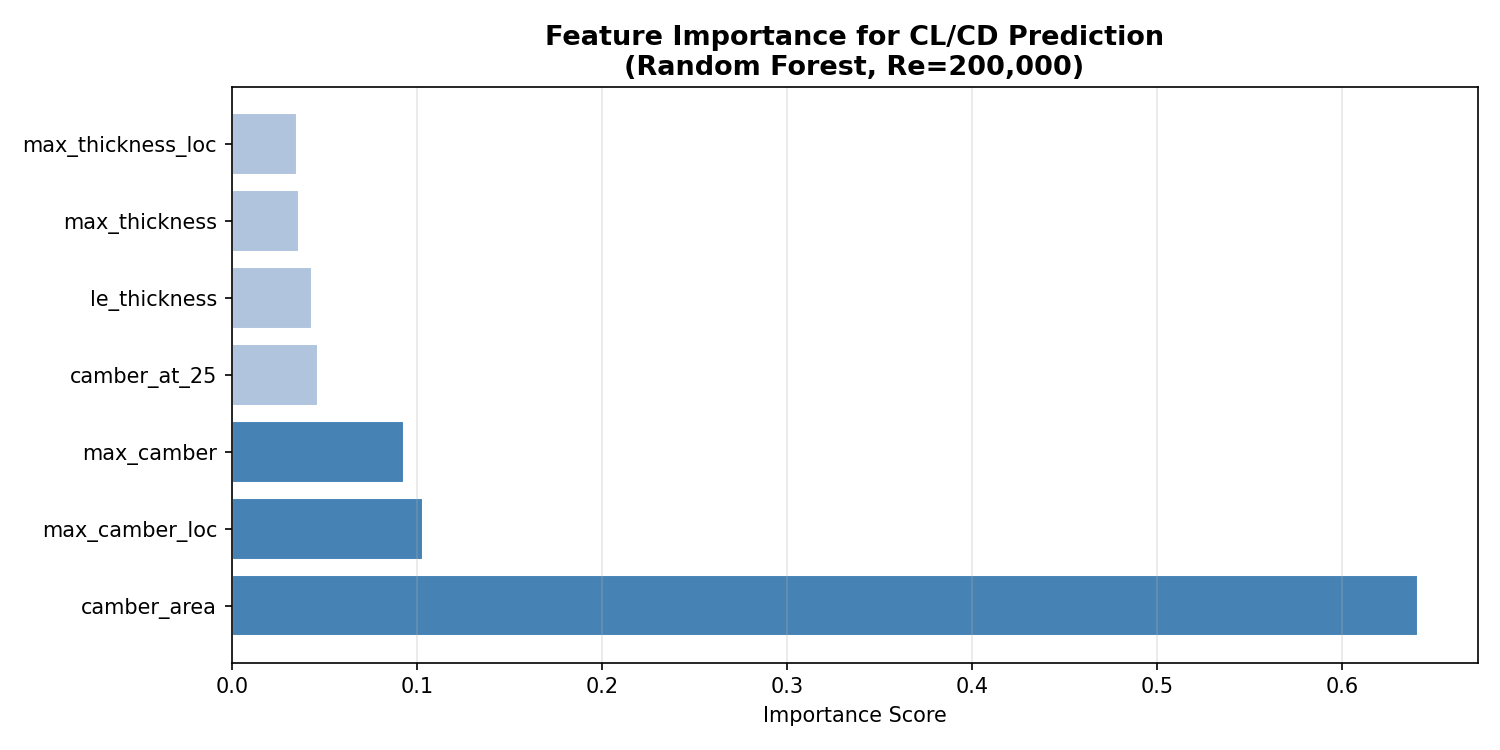
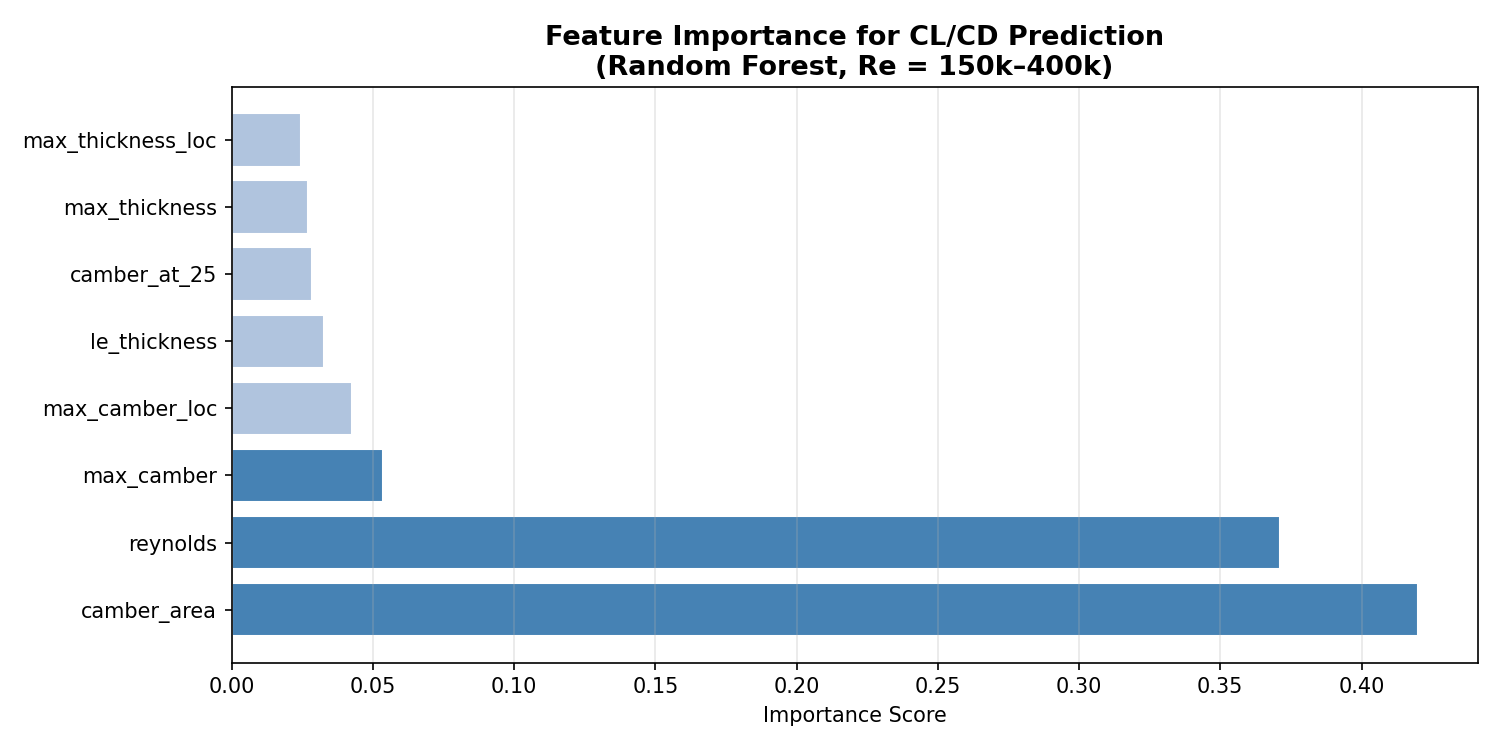
Fix CL/CD overfitting: add reynolds feature + airfoil-grouped CV/hold-out (CV R2 0.376->0.862)

diff --git a/ml_model.py b/ml_model.py
@@ -3,19 +3,21 @@ import numpy as np
 import matplotlib.pyplot as plt
 from sklearn.ensemble import RandomForestRegressor, GradientBoostingRegressor
 from sklearn.linear_model import LinearRegression
-from sklearn.model_selection import train_test_split, cross_val_score
+from sklearn.model_selection import cross_val_score, GroupKFold, GroupShuffleSplit
+from sklearn.pipeline import Pipeline
 from sklearn.preprocessing import StandardScaler
 from sklearn.metrics import r2_score, mean_absolute_error
 import os
 
-df = pd.read_csv('results/geometry_performance.csv')
+df = pd.read_csv('results/training_data_multiRe.csv')
 os.makedirs('results/figures', exist_ok=True)
 
 print(f"Dataset: {len(df)} airfoils\n")
 
 # ── Features and targets ───────────────────────────────────────────────────
 features = ['max_camber', 'max_camber_loc', 'max_thickness',
-            'max_thickness_loc', 'le_thickness', 'camber_at_25', 'camber_area']
+            'max_thickness_loc', 'le_thickness', 'camber_at_25', 'camber_area',
+            'reynolds']
 
 targets = {
     'max_CL_CD': 'Maximum CL/CD',
@@ -24,6 +26,15 @@ targets = {
 }
 
 X = df[features].values
+groups = df['airfoil'].values          # keeps an airfoil's Re rows on one side of each split
+gkf = GroupKFold(n_splits=5)
+
+# One held-out split for the reported test score, grouped so no airfoil
+# appears in both train and test (the plain random split leaked airfoils
+# across Re rows and inflated the test R²)
+gss = GroupShuffleSplit(n_splits=1, test_size=0.2, random_state=42)
+train_idx, test_idx = next(gss.split(X, groups=groups))
+
 print(f"Features: {features}")
 print(f"Samples: {len(X)}\n")
 
@@ -32,14 +43,10 @@ results = {}
 
 for target_col, target_name in targets.items():
     y = df[target_col].values
-    
-    X_train, X_test, y_train, y_test = train_test_split(
-        X, y, test_size=0.2, random_state=42)
-    
-    scaler = StandardScaler()
-    X_train_sc = scaler.fit_transform(X_train)
-    X_test_sc = scaler.transform(X_test)
-    
+
+    X_train, X_test = X[train_idx], X[test_idx]
+    y_train, y_test = y[train_idx], y[test_idx]
+
     models = {
         'Linear Regression': LinearRegression(),
         'Random Forest':     RandomForestRegressor(n_estimators=100, random_state=42),
@@ -53,26 +60,27 @@ for target_col, target_name in targets.items():
     best_r2 = -999
     
     for model_name, model in models.items():
+        # Linear Regression needs scaling; wrap it so the scaler refits
+        # inside each CV fold (no test-fold leakage) and reynolds is scaled
+        # in-matrix alongside the geometry features
         if model_name == 'Linear Regression':
-            model.fit(X_train_sc, y_train)
-            y_pred = model.predict(X_test_sc)
+            estimator = Pipeline([('scaler', StandardScaler()), ('lr', model)])
         else:
-            model.fit(X_train, y_train)
-            y_pred = model.predict(X_test)
-        
+            estimator = model
+
+        estimator.fit(X_train, y_train)
+        y_pred = estimator.predict(X_test)
+
         r2 = r2_score(y_test, y_pred)
         mae = mean_absolute_error(y_test, y_pred)
-        
-        # Cross validation
-        if model_name == 'Linear Regression':
-            cv_scores = cross_val_score(model, 
-                scaler.fit_transform(X), y, cv=5, scoring='r2')
-        else:
-            cv_scores = cross_val_score(model, X, y, cv=5, scoring='r2')
-        
+
+        # Grouped cross-validation: an airfoil is never in train and test at once
+        cv_scores = cross_val_score(estimator, X, y, cv=gkf,
+                                    groups=groups, scoring='r2')
+
         print(f"  {model_name}:")
         print(f"    Test R²={r2:.3f}  MAE={mae:.3f}  CV R²={cv_scores.mean():.3f}±{cv_scores.std():.3f}")
-        
+
         if r2 > best_r2:
             best_r2 = r2
             best_model = (model_name, model, y_pred, y_test)
@@ -101,7 +109,7 @@ colors = ['steelblue' if i < 3 else 'lightsteelblue'
           for i in range(len(importance_df))]
 ax.barh(importance_df['feature'], importance_df['importance'],
         color=colors, edgecolor='white')
-ax.set_title('Feature Importance for CL/CD Prediction\n(Random Forest, Re=200,000)',
+ax.set_title('Feature Importance for CL/CD Prediction\n(Random Forest, Re = 150k–400k)',
              fontsize=13, fontweight='bold')
 ax.set_xlabel('Importance Score')
 ax.grid(True, alpha=0.3, axis='x')
@@ -132,7 +140,7 @@ for ax, (target_col, target_name) in zip(axes, targets.items()):
     ax.legend(fontsize=8)
     ax.grid(True, alpha=0.3)
 
-plt.suptitle('ML Model Predictions vs Actual Values',
+plt.suptitle('ML Model Predictions vs Actual Values (Re = 150k–400k, airfoil-grouped CV)',
              fontsize=13, fontweight='bold')
 plt.tight_layout()
 plt.savefig('results/figures/ml_predictions.png', dpi=150)
